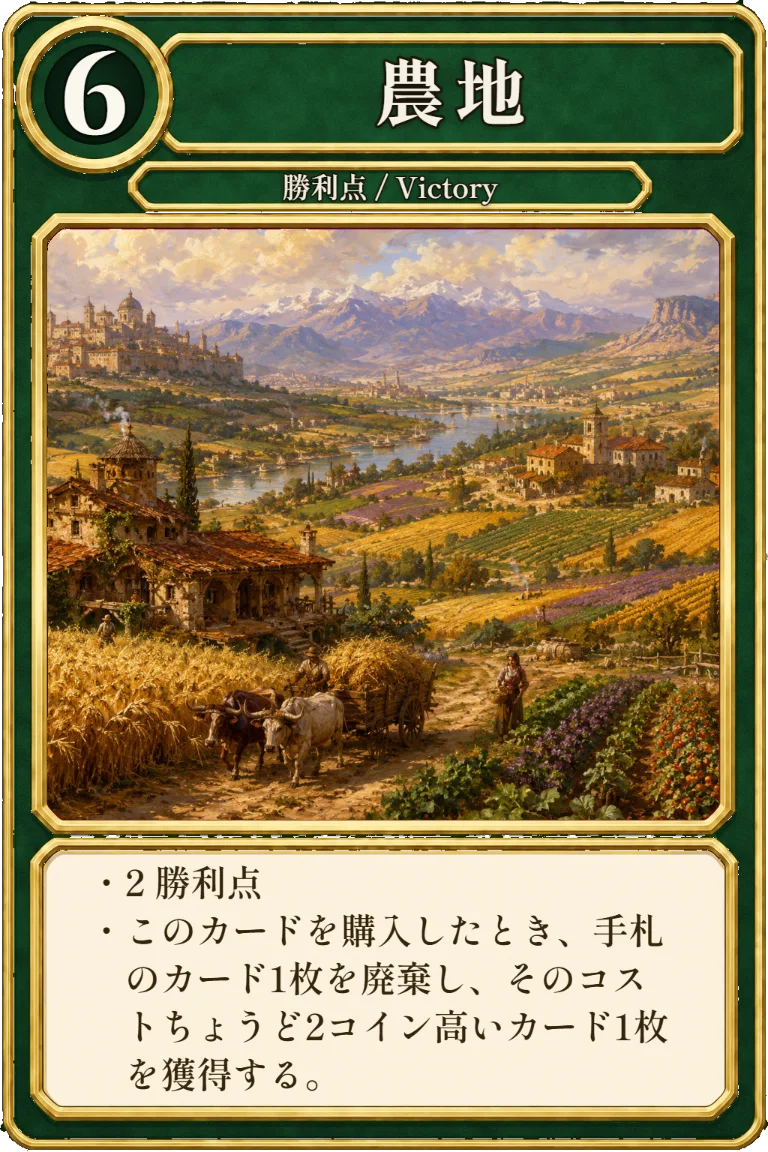
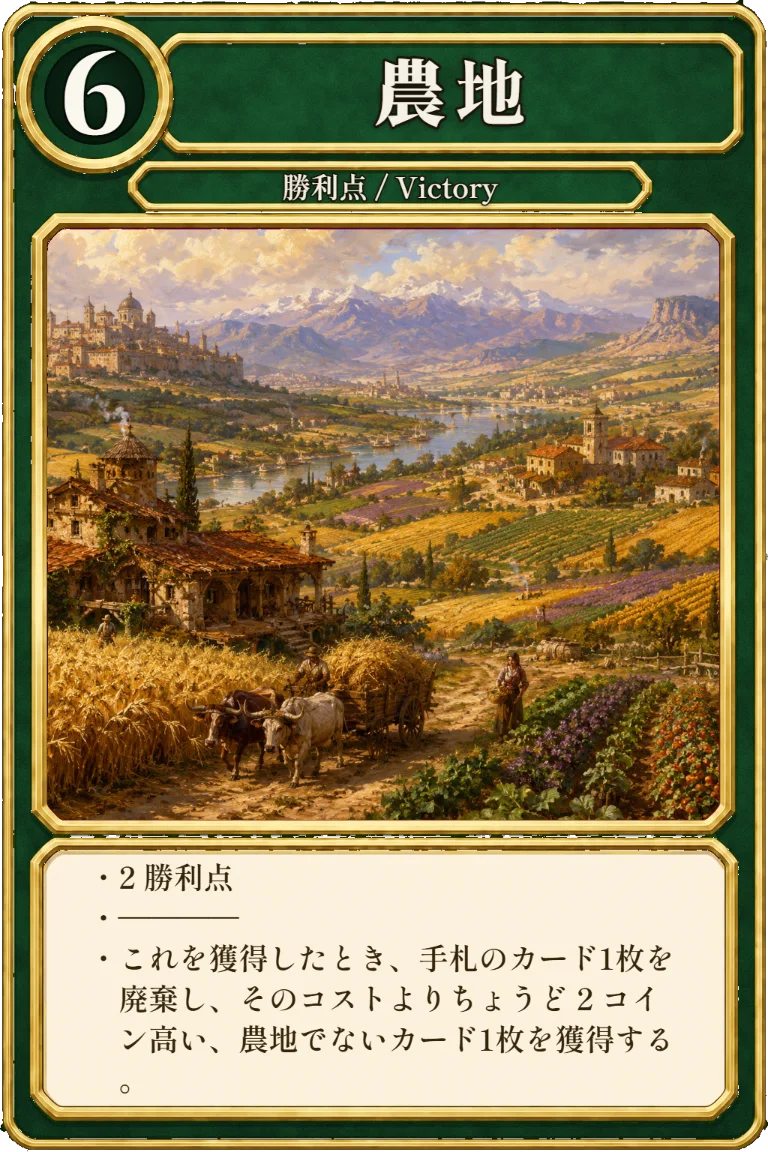
fix(cards): カード文の全数監査で確定した [medium] 14件を修正（2022年第2版エラッタの取りこぼし7枚ほか）
## 「場にある間」→「このターン」（2022年第2版・印刷済み）＝§0-40 で王女/ティアラ/収集品を直したときの取りこぼし
- **石切場(quarry)**／**街道(highway)**／**値切り屋(haggler)**／**隠し財産(hoard)** の4枚が
  `inPlay` の枚数で判定していた＝**場を離れると軽減や誘発が消える**（偽造通貨で廃棄する等）。
  → `t.quarryPlays` / `t.highwayPlays` / `t.hagglerPlays` / `t.hoardPlays`（使用回数）に統一。
  石切場の「（$0未満にはならない）」も2020年に一般ルール化されて印刷から消えているので削除。

## 「購入したとき」→「獲得したとき」（2022年第2版・印刷済み）
- **造幣所(mint)**／**港町(port)**／**農地(farmland)** が BUY の中だけに書かれており、
  工房/改築/密輸人などで獲得しても働かなかった。→ `triggerOnGain` へ移動。
  造幣所は「**持続でない**財宝」に限定（公式）、港町は「この2枚目ではさらに獲得しない」を `state._portChain` で担保、
  農地は pending 競合時に `onGainQueue` へ積む。
- **隠し財産**も同じ2022エラッタで「**購入していたなら**」が条件＝どの獲得でも金貨が付く実バグだった
  （工房/密輸人/軍用金で勝利点を取っただけで金貨）。公式FAQ が War Chest を名指しで否定している。

## engine の書き落とし
- **拷問人(torturer)** が捨てさせた手札で `triggerOnDiscard` を呼んでいなかった＝**坑道で金貨が出ない**
  （民兵・軍団兵・辺境伯は呼んでいる）。engine のコメントが「拷問人は呼んでいる」と事実と逆だったのも訂正。
- **進路(trail)** ＝`When you gain, trash, or discard this, other than in Clean-up, you may play it.` の
  3経路のうち**捨て札しか配線されていなかった**（`trailPlay` に `fromZone === 'trash'` 分岐は最初からあった）。
  → 獲得時・廃棄時にも配線（サプライからの廃棄＝塩まき/待ち伏せ/剣闘士では使えない）。

## カード文
- **宝の地図** ＝「2枚廃棄できれば」が条件節に読め、2枚目が無くても1枚目が廃棄される公式・engine の挙動が伝わらなかった。
- **神託** ＝戻す順を決めるのは「そのプレイヤー」（公式は全版で一貫）。
- **戦車競走** ＝engine は2025エラッタ（`+1 Card, revealing it.`）で動いているのに text が2022年版のままだった。
- 造幣所／農地／港町の区切り線も公式（生HTMLの `<hr>`）に合わせた。

検証: npm test 全50スイート緑（exit 0）／バグ注入 9/9 検出／verify:e2e 9/9／verify:visual はみ出し0／
webp 10枚を焼き直してモンタージュで目視。

Changed region(s): [[0.1562, 0.75, 0.875, 0.9688], [0.4688, 0.0312, 0.5938, 0.125]]

diff --git a/js/engine.js b/js/engine.js
@@ -881,8 +881,10 @@
     if (t && id === 'destrier') base -= (t.gainedThisTurn || []).length; // このターン獲得した枚数ぶん安い
     if (t && id === 'fisherman' && active && (active.discard || []).length === 0) base -= 3; // 手番プレイヤーの捨て札が空なら$3安い
     // 繁栄：石切場が場にある間、アクションカードは1枚につき$2安い（$0未満にはならない）。
+    /* 繁栄：石切場＝2022年第2版エラッタで「場にある間」→**「このターン」**型（ティアラ/収集品と同じクラス）。
+       `but not less than $0` も2020年に一般ルール化されて印刷から消えている（下のクランプが担う）。 */
     if (active && DOM.isType(id, 'action')) {
-      const quarries = (active.inPlay || []).filter((x) => x === 'quarry').length;
+      const quarries = (t && t.quarryPlays) || 0;
       if (quarries) base -= 2 * quarries;
     }
     // 繁栄：行商人は購入フェイズ中、場のアクションカード1枚につき$2安い。
@@ -893,8 +895,9 @@
     // 収穫祭：王女が場にある間、全カードは1枚につき$2安くなる（$0未満にはならない・王女の枚数ぶん重なる）。
     // 収穫祭：王女＝2022エラッタで「このターン」型（`t.costReduction`＝橋と同じ）。場の枚数を見る旧形はここから撤去した。
     // 異郷：街道が場にある間、全カードは1枚につき$1安くなる（$0未満にはならない・街道の枚数ぶん重なる）。
+    /* 異郷：街道＝2022年第2版エラッタで「場にある間」→**「このターン」**型。 */
     if (active) {
-      const highways = (active.inPlay || []).filter((x) => x === 'highway').length;
+      const highways = (t && t.highwayPlays) || 0;
       if (highways) base -= highways;
     }
     // 冒険：渡し船（Ferry）の -$2 コストトークン＝手番プレイヤーが自分のトークンを置いた山だけ$2安い
@@ -1451,6 +1454,10 @@
     // 宝冠＝購入フェイズに財宝として出しても「アクション→財宝」の2段窓（フェイズに依らない＝冠と違う）。
     if (card === 'coronet') coronetStart(state, pIndex);
     if (card === 'collection') { t.buys += 1; t.collectionPlays = (t.collectionPlays || 0) + 1; }
+    /* 2022年第2版エラッタで「場にある間」→**「このターン」**型になった財宝（ティアラ/収集品と同じクラス）。
+       石切場＝アクションが $2 安い／隠し財産＝**購入した**勝利点1枚につき金貨1枚。 */
+    if (card === 'quarry') t.quarryPlays = (t.quarryPlays || 0) + 1;
+    if (card === 'hoard') t.hoardPlays = (t.hoardPlays || 0) + 1;
     // ===== ルネサンス：財宝カードの「使ったとき」効果 =====
     // 香辛料：+1購入（コイン2は coin:2 で加算済み）。獲得時の +2財源 は triggerOnGain。
     if (card === 'spices') t.buys += 1;
@@ -3484,7 +3491,18 @@
 
   // 隠し財産(Hoard): いまは「獲得時」フック(triggerOnGain)で金貨を獲得する（購入に限らず faithful）。
   // 互換のため関数は残すが何もしない（BUY/闇市場の呼び出し側は変更不要）。
-  function applyHoardOnBuy() { /* no-op: hoard は triggerOnGain で処理 */ }
+  /* 繁栄：隠し財産＝2022年第2版エラッタで「これが場にある間、勝利点カードを獲得したとき」→
+     **`This turn, when you gain a Victory card, if you bought it, gain a Gold.`**
+     ⚠ 2026-08-25 まで `triggerOnGain` で**購入以外の獲得でも**金貨を配っていた（工房/密輸人/軍用金で
+        勝利点を取っただけで金貨が付く＝公式より強い実バグ）。公式FAQ も `not when you gain a Victory card
+        other ways (such as via War Chest)` と明記。→ **購入の経路からだけ**呼ぶ。 */
+  function applyHoardOnBuy(state, pi, cardId) {
+    if (!state.turn || !DOM.isType(cardId, 'victory')) return;
+    const n = state.turn.hoardPlays || 0;   // 「このターン」型＝使用回数（場の枚数ではない）
+    for (let i = 0; i < n; i++) {
+      if (gain(state, pi, 'gold', 'discard')) log(state, `${state.players[pi].name} は隠し財産で金貨を獲得した。`);
+    }
+  }
 
   /* ---------- 選択リゾルバの共通部品（カードを足すほど効く再利用パーツ）----------
      手札からN枚を捨てる/廃棄する、強制つきでサプライから獲得する、の3定型を1か所に。
@@ -7881,9 +7899,11 @@
         break;
       case 'haggler':
         addCoins(state, 2);
+        t.hagglerPlays = (t.hagglerPlays || 0) + 1; // 「このターン」型（2022エラッタ）＝場を離れても効く
         break;
       case 'highway':
         draw(state, pi, 1); addActions(t, 1);
+        t.highwayPlays = (t.highwayPlays || 0) + 1; // 「このターン」型（2022エラッタ）＝場を離れても効く
         break;
       case 'inn':
         draw(state, pi, 2); addActions(t, 2);
@@ -11192,6 +11212,27 @@
     if (gp.hand.includes('sleigh')) {
       (state.onGainQueue = state.onGainQueue || []).push({ type: 'sleigh_react', player: pIndex, card: cardId, dest: dest || 'discard' });
     }
+    /* 2022年第2版エラッタ（いずれも印刷済み・June 2022）で「購入したとき」→**「獲得したとき」**になった3枚。
+       ⚠ 2026-08-25 まで BUY の中だけに書かれており、工房/改築/密輸人などで獲得しても働かなかった。 */
+    // 繁栄：造幣所＝これを獲得したとき、場の**持続でない**財宝をすべて廃棄する。
+    if (cardId === 'mint') {
+      const inPlayT = gp.inPlay.filter((c) => isTreasureFor(state, c) && !DOM.isType(c, 'duration'));
+      inPlayT.forEach((c) => { removeOne(gp.inPlay, c); trashCard(state, pIndex, c); });
+      if (inPlayT.length) log(state, `${gp.name} は造幣所の獲得で場の財宝 ${inPlayT.length}枚 を廃棄した。`);
+    }
+    // 冒険：港町＝これを獲得したとき、もう1枚の港町を獲得する（**その2枚目ではさらに獲得しない**）。
+    if (cardId === 'port' && !state._portChain) {
+      state._portChain = true;
+      try { if (gain(state, pIndex, 'port', 'discard')) log(state, `${gp.name} は港町の獲得でもう1枚の港町を獲得した。`); }
+      finally { delete state._portChain; }
+    }
+    // 異郷：農地＝これを獲得したとき、手札1枚を廃棄し、ちょうど$2高い**農地でない**カード1枚を獲得する。
+    if (cardId === 'farmland' && gp.hand.length > 0) {
+      if (state.pending) (state.onGainQueue = state.onGainQueue || []).push({ type: 'farmland', stage: 'trash', player: pIndex });
+      else state.pending = { type: 'farmland', stage: 'trash', player: pIndex };
+    }
+    // 異郷：進路＝これを獲得したとき、使ってよい（クリンナップ以外）。自動（純利得）。
+    if (cardId === 'trail') trailPlay(state, pIndex, 'gain');
     /* 黒猫＝**他のプレイヤー**が勝利点カードを獲得したとき、手札からこれを使用してよい（任意・アクション権を使わない）。
        公式＝`When another player gains a Victory card, you may play this from your hand.`
        ⚠ 2026-08-25 まで**この窓が存在せず**、黒猫は自分のアクションフェイズでしか出せなかった＝
@@ -11247,13 +11288,6 @@
         log(state, `${gp.name} は大釜で このターン3回目のアクション獲得（各相手に呪い）。`);
         const cq = []; for (let k = 1; k < n; k++) cq.push((pIndex + k) % n);
         cauldronEnterVictim(state, pIndex, cq);
-      }
-    }
-    // 繁栄：自分の手番に勝利点カードを獲得 → 場の隠し財産1枚につき金貨1枚（hoard）。
-    if (state.turn && pIndex === state.turn.active && DOM.isType(cardId, 'victory')) {
-      const hoards = state.players[pIndex].inPlay.filter((c) => c === 'hoard').length;
-      for (let i = 0; i < hoards; i++) {
-        if (gain(state, pIndex, 'gold', 'discard')) log(state, `${state.players[pIndex].name} は隠し財産で金貨を獲得した。`);
       }
     }
     // 帝国：庭師（groundskeeper）＝場にある庭師1枚につき、自分の手番に勝利点カードを獲得するたびVPトークン1個。
@@ -11562,9 +11596,25 @@
   }
   /* ---------- 異郷：捨て札にしたとき／廃棄したときのフック ---------- */
   // 進路／織工を（捨て札や廃棄置き場から）場に出して使う共通処理。反応で使うので +アクションは自分の手番のときだけ。
+  /* 異郷：進路＝`When you gain, trash, or discard this, other than in Clean-up, you may play it.`
+     ⚠ 2026-08-25 まで**捨て札の経路だけ**が配線されており、獲得したときも廃棄したときも使えなかった
+        （`fromZone === 'trash'` の分岐は最初からあったのに呼び出しが無かった＝書き落とし）。 */
   function trailPlay(state, pi, fromZone) {
     const p = state.players[pi];
-    const z = fromZone === 'trash' ? state.trash : p.discard;
+    const z = fromZone === 'trash' ? state.trash : (fromZone === 'gain' ? null : p.discard);
+    if (z === null) {
+      // 獲得直後＝獲得先ゾーンから取り出す（捨て札／手札／山札のどれでもよい）
+      const zones = [p.discard, p.hand, p.deck];
+      let moved = false;
+      for (const zz of zones) if (removeOne(zz, 'trail')) { moved = true; break; }
+      if (!moved) return;
+      p.inPlay.push('trail');
+      if (state.turn && pi === state.turn.active) state.turn.actionsPlayed = (state.turn.actionsPlayed || 0) + 1;
+      draw(state, pi, 1);
+      if (state.turn && pi === state.turn.active) addActions(state.turn, 1);
+      log(state, `${p.name} は進路を使った（+1カード${state.turn && pi === state.turn.active ? ' +1アクション' : ''}）。`);
+      return;
+    }
     if (!removeOne(z, 'trail')) return;
     p.inPlay.push('trail');
     if (state.turn && pi === state.turn.active) state.turn.actionsPlayed = (state.turn.actionsPlayed || 0) + 1;
@@ -11612,7 +11662,10 @@
   //   ※対話（pending）を要する on-trash（地下墓所/狩場/従者）は §カード実装バッチで on-trash キューとして追加する。
   function triggerOnTrash(state, pIndex, card, opts) {
     const p = state.players[pIndex];
-    const fromSupply = !!(opts && opts.fromSupply); // サプライの山からの廃棄（塩まき/待ち伏せ/剣闘士）＝「あなたのカード」ではない
+    const fromSupply = !!(opts && opts.fromSupply);
+    // 異郷：進路＝これが廃棄されたとき、廃棄置き場から使ってよい（クリンナップ以外）。自動（純利得）。
+    //   サプライの山からの廃棄（塩まき/待ち伏せ/剣闘士）は「あなたのカード」ではないので使えない。
+    if (card === 'trail' && !fromSupply) trailPlay(state, pIndex, 'trash'); // サプライの山からの廃棄（塩まき/待ち伏せ/剣闘士）＝「あなたのカード」ではない
     /* 暗黒時代：青空市場（リアクション）＝**自分のカード**が廃棄されたとき、手札の青空市場を捨てて金貨を獲得してよい
        （誰のターンでも・相手のアタックでの廃棄でも発動。1廃棄に複数枚反応可）。対話＝onTrashQueue へ。
        **サプライの山からの廃棄（待ち伏せ/剣闘士/塩まき）は「自分のカード」ではない＝反応しない**（公式）。
@@ -11715,7 +11768,7 @@
     return costUnder(state, id, ref.coin, ref) && !isTypeSupply(state, id, 'victory');
   }
   function maybeHagglerGains(state, pi, ref) {
-    const hagglers = state.players[pi].inPlay.filter((c) => c === 'haggler').length;
+    const hagglers = (state.turn && state.turn.hagglerPlays) || 0; // 「このターン」型（2022エラッタ）＝場を離れても効く
     if (hagglers > 0 && !state.pending &&
         anyGainable(state, (id) => hagglerCanGain(state, ref, id))) {
       state.pending = { type: 'haggler', player: pi, remaining: hagglers, maxCost: ref.coin - 1, coin: ref.coin, pot: ref.pot, debt: ref.debt };
@@ -14870,14 +14923,7 @@
         takeDebt(state, pi, card);
         gain(state, pi, card, 'discard');
         log(state, `${me.name} は「${C()[card].name}」を購入した。`);
-        // 繁栄：造幣所を購入したとき、場の財宝をすべて廃棄する。
-        if (card === 'mint') {
-          const inPlayT = me.inPlay.filter((c) => isTreasureFor(state, c));
-          inPlayT.forEach((c) => { removeOne(me.inPlay, c); trashCard(state, pi, c); });
-          if (inPlayT.length) log(state, `${me.name} は造幣所の購入で場の財宝 ${inPlayT.length}枚 を廃棄した。`);
-        }
-        // 冒険：港町を購入したとき、もう1枚の港町を獲得する（獲得＝BUY再帰しないので二重購入にならない）。
-        if (card === 'port') { if (gain(state, pi, 'port', 'discard')) log(state, `${me.name} は港町の購入でもう1枚の港町を獲得した。`); }
+        // 2026-08-25：造幣所／港町／農地は2022エラッタで「購入したとき」→**「獲得したとき」**＝triggerOnGain へ移した。
         // ギルド：商人ギルド（2021）＝財源は**購入フェイズの終了時**（`merchantGuildEndOfBuy`）にまとめて入る＝購入の瞬間には何も起きない。
         // 繁栄1版：ならず者＝場にある枚数ぶん +1VP（イベント/プロジェクトの購入は対象外）。
         goonsOnBuy(state, pi);
@@ -14887,10 +14933,6 @@
         queueEmbargoCurses(state, pi, card);
         // ギルド：過払い（overpay）＝購入時に追加でコインを払える。残コインがあれば選択待ちを立てる。
         maybeStartOverpay(state, pi, card);
-        // 異郷：農地＝購入したとき、手札1枚を廃棄し、ちょうど$2高いカード1枚を獲得。
-        if (card === 'farmland' && me.hand.length > 0 && !state.pending) {
-          state.pending = { type: 'farmland', stage: 'trash', player: pi };
-        }
         // 冒険：使者＝そのターン最初の購入なら $4以下1枚を獲得し他の各Pもコピーを獲得。
         if (card === 'messenger' && t.buysMade === 1 && !state.pending && anyGainable(state, (id) => costUpTo(state, id, 4))) {
           state.pending = { type: 'messenger_gain', player: pi };
@@ -14899,6 +14941,7 @@
         if (card === 'noble_brigand' && !state.pending) nobleBrigandAttack(state, pi);
         // 異郷：値切り屋＝場にある間、購入のたびに そのコスト未満の勝利点でないカード1枚を獲得。
         //   基準は**購入時点**のコスト3成分（混合山は gain() の shift で一番上が変わるので gain 後に測ってはいけない）。
+        applyHoardOnBuy(state, pi, card);   // 繁栄：隠し財産＝**購入した**勝利点にだけ金貨が付く（2022エラッタ）
         maybeHagglerGains(state, pi, boughtRef);
         // 冒険：呪いの森/沼の妖婆＝他Pの持続がある間、購入のたびに手札を山札の上へ/呪い獲得（購入した以上フックは必ず発動）。
         //   農地の廃棄pendingが立ったまま呪いの森が手札を空にしても、FARMLAND_TRASH が空手札を終端処理する（詰まない）。
@@ -16988,6 +17031,9 @@
           for (const c of cards) if (!removeOne(handCopy, c)) return state;
           cards.forEach((c) => { removeOne(p.hand, c); p.discard.push(c); });
           log(state, `${p.name} は手札 ${cards.length}枚 を捨てた。`);
+          // 2026-08-25：ここが `triggerOnDiscard` を呼んでいなかった＝拷問人で坑道を捨てても金貨が出なかった
+          //   （民兵・軍団兵・辺境伯は呼んでいる）。相手のアタックによる捨て札なので noPrompt=true。
+          if (cards.length) triggerOnDiscard(state, pd.player, cards, true);
         }
         advanceAttack(state, pd);
         return state;

diff --git a/js/cards.js b/js/cards.js
@@ -191,7 +191,7 @@
     black_market: { id: 'black_market', name: '闇市場',     cost: 3, types: ['action'],
                     text: '+2 コイン\n闇市場デッキの上3枚を公開する。\n手札から財宝を好きなだけ出してよい。\n公開した1枚を購入してもよい。残りは闇市場デッキの底へ。' },
     hoard:        { id: 'hoard',        name: '隠し財産',   cost: 6, types: ['treasure'], coin: 2,
-                    text: 'コイン +2\nこれが場にある間、勝利点カードを獲得したとき、金貨1枚を獲得する。' },
+                    text: 'コイン +2\nこのターン、勝利点カードを獲得したとき、それを購入していたなら、金貨1枚を獲得する。' },
 
     /* ===== 拡張: 海辺（Seaside 第二版）27種 =====
        いまは「完成形カード画像(asset/cards/<id>.webp)を作る」ためのカタログ追加のみ。
@@ -222,7 +222,7 @@
                     text: 'このターンと次のターン\n+1 コイン\n+1 購入' },
     // --- コスト4 ---
     treasure_map: { id: 'treasure_map', name: '宝の地図',   cost: 4, types: ['action'],
-                    text: 'これと手札の宝の地図をもう1枚廃棄できれば\n金貨4枚を獲得し山札の上に置く' },
+                    text: 'これと手札の宝の地図1枚を廃棄する。\n宝の地図を2枚廃棄したなら、\n金貨4枚を獲得し山札の上に置く。' },
     salvager:     { id: 'salvager',     name: '引揚水夫',   cost: 4, types: ['action'],
                     text: '+1 購入\n手札1枚を廃棄\n+（廃棄したカードのコスト）コイン' },
     cutpurse:     { id: 'cutpurse',     name: '巾着切り',   cost: 4, types: ['action', 'attack'],
@@ -302,7 +302,7 @@
     monument:     { id: 'monument',     name: '記念碑',       cost: 4, types: ['action'],
                     text: '+2 コイン、+1 勝利点' },
     quarry:       { id: 'quarry',       name: '石切場',       cost: 4, types: ['treasure'], coin: 1,
-                    text: 'コイン +1\nこれが場にある間、アクションカードのコストは $2 少なくなる（$0未満にはならない）。' },
+                    text: 'コイン +1\nこのターン、アクションカードのコストは $2 少なくなる。' },
     tiara:        { id: 'tiara',        name: 'ティアラ',     cost: 4, types: ['treasure'],
                     text: '+1 購入\nこのターン、カードを獲得したとき山札の上に置いてよい。\n手札の財宝1枚を2回使ってよい。' },
     workers_village: { id: 'workers_village', name: '労働者の村', cost: 4, types: ['action'],
@@ -318,7 +318,7 @@
     magnate:      { id: 'magnate',      name: '有力者',         cost: 5, types: ['action'],
                     text: '手札を公開する。その中の財宝1枚につき +1 カード。' },
     mint:         { id: 'mint',         name: '造幣所',       cost: 5, types: ['action'],
-                    text: '手札の財宝1枚を公開してよい。公開したなら、そのコピーを獲得する。\n（購入時）これを購入したとき、場の財宝をすべて廃棄する。' },
+                    text: '手札の財宝1枚を公開してよい。公開したなら、そのコピーを獲得する。\n————\nこれを獲得したとき、場の持続でない財宝をすべて廃棄する。' },
     rabble:       { id: 'rabble',       name: '大衆',         cost: 5, types: ['action', 'attack'],
                     text: '+3 カード\n他のプレイヤーは各自、山札の上3枚を公開し、アクションと財宝を捨て、残りを好きな順で山札の上に戻す。' },
     vault:        { id: 'vault',        name: '保管庫',       cost: 5, types: ['action'],
@@ -399,7 +399,7 @@
     oasis: { id: 'oasis', name: 'オアシス', cost: 3, types: ['action'],
                  text: '+1 カード\n+1 アクション\n+1 コイン\n手札を1枚捨てる。' },
     oracle: { id: 'oracle', name: '神託', cost: 3, types: ['action', 'attack'],
-                 text: '各プレイヤー（あなたを含む）は自分の山札の上から2枚を公開する。あなたはプレイヤーごとに、それらを捨て札にさせるか、好きな順で山札の一番上に戻させるかを選ぶ。\nその後、+2 カード' },
+                 text: '各プレイヤー（あなたを含む）は自分の山札の上から2枚を公開する。あなたはプレイヤーごとに、それらを捨て札にさせるか、山札の一番上に戻させるかを選ぶ（戻す順番はそのプレイヤーが決める）。\nその後、+2 カード' },
     scheme: { id: 'scheme', name: '画策', cost: 3, types: ['action'],
                  text: '+1 カード\n+1 アクション\nこのターンのクリンナップ時、場に出ているアクションカード1枚を選び、山札の一番上に置いてもよい。' },
     tunnel: { id: 'tunnel', name: '坑道', cost: 3, types: ['victory', 'reaction'], vp: 2,
@@ -423,9 +423,9 @@
     embassy: { id: 'embassy', name: '大使館', cost: 5, types: ['action'],
                  text: '+5 カード\n手札を3枚捨てる。\nこのカードを獲得したとき、他のプレイヤーは各自銀貨1枚を獲得する。' },
     haggler: { id: 'haggler', name: '値切り屋', cost: 5, types: ['action'],
-                 text: '+2 コイン\nこのカードが場にある間、カードを購入したとき、そのコスト未満の勝利点でないカード1枚を獲得する。' },
+                 text: '+2 コイン\nこのターン、カードを獲得したとき、それを購入していたなら、そのコスト未満の勝利点でないカード1枚を獲得する。' },
     highway: { id: 'highway', name: '街道', cost: 5, types: ['action'],
-                 text: '+1 カード\n+1 アクション\nこのカードが場にある間、すべてのカードのコストは 1 コイン安くなる（ただし 0 コイン未満にはならない）。' },
+                 text: '+1 カード\n+1 アクション\nこのターン、すべてのカードのコストは 1 コイン安くなる。' },
     ill_gotten_gains: { id: 'ill_gotten_gains', name: '不正利得', cost: 5, types: ['treasure'], coin: 1,
                  text: '1 コイン\nこのカードをプレイしたとき、銅貨1枚を獲得して手札に加えてもよい。\nこのカードを獲得したとき、他のプレイヤーは各自呪い1枚を獲得する。' },
     inn: { id: 'inn', name: '宿屋', cost: 5, types: ['action'],
@@ -439,7 +439,7 @@
     border_village: { id: 'border_village', name: '国境の村', cost: 6, types: ['action'],
                  text: '+1 カード\n+2 アクション\nこのカードを獲得したとき、そのコスト未満のカード1枚を獲得する。' },
     farmland: { id: 'farmland', name: '農地', cost: 6, types: ['victory'], vp: 2,
-                 text: '2 勝利点\nこのカードを購入したとき、手札のカード1枚を廃棄し、そのコストちょうど2コイン高いカード1枚を獲得する。' },
+                 text: '2 勝利点\n————\nこれを獲得したとき、手札のカード1枚を廃棄し、そのコストよりちょうど 2 コイン高い、農地でないカード1枚を獲得する。' },
     nomads: { id: 'nomads', name: '遊牧民', cost: 4, types: ['action'],
                  text: '+1 購入、+2 コイン\nこれを獲得または廃棄したとき、+2 コイン。' },
     trail: { id: 'trail', name: '進路', cost: 4, types: ['action', 'reaction'],
@@ -638,7 +638,7 @@
     miser: { id: 'miser', name: '守銭奴', cost: 4, types: ['action'],
                  text: '以下から1つ選ぶ：\n手札の銅貨1枚を酒場マットに置く／酒場マットの銅貨1枚につき +$1。' },
     port: { id: 'port', name: '港町', cost: 4, types: ['action'],
-                 text: '+1 カード\n+2 アクション\nこれを購入した時、もう1枚の港町を獲得する。' },
+                 text: '+1 カード\n+2 アクション\n————\nこれを獲得したとき、もう1枚の港町を獲得する（この2枚目ではさらに獲得しない）。' },
     ranger: { id: 'ranger', name: '山守', cost: 4, types: ['action'],
                  text: '+1 購入\n旅トークンを裏返す（表向きから始まる）。\nその後、表向きなら +5 カード。' },
     transmogrify: { id: 'transmogrify', name: '変容', cost: 4, types: ['action', 'reserve'],
@@ -697,7 +697,7 @@
     farmers_market: { id: 'farmers_market', name: '農家の市場', cost: 3, types: ['action'],
                  text: '+1 購入\nこのサプライ上に勝利点トークンが4個以上あるなら、それらをすべて得てこれを廃棄する。\nそうでなければ、このサプライに勝利点トークン1個を置き、その後このサプライ上の勝利点トークン1個につき +1 コイン。' },
     chariot_race: { id: 'chariot_race', name: '戦車競走', cost: 3, types: ['action'],
-                 text: '+1 アクション\n山札の一番上を公開して手札に加える。左隣のプレイヤーも山札の一番上を公開する。\nあなたのカードのコストが高ければ、+1 コイン と 勝利点トークン1個。' },
+                 text: '+1 アクション\n+1 カード（引いたカードを公開する）。左隣のプレイヤーは自分の山札の一番上を公開する。\nあなたのカードのコストが高ければ、+1 コイン と 勝利点トークン1個。' },
     enchantress: { id: 'enchantress', name: '女魔術師', cost: 3, types: ['action', 'attack', 'duration'],
                  text: 'あなたの次の手番まで、他の各プレイヤーがその手番で最初にプレイするアクションカードは、記載の効果の代わりに +1 カード +1 アクション となる。\n次の自分の手番開始時: +2 カード' },
     sacrifice: { id: 'sacrifice', name: '生贄', cost: 4, types: ['action'],
